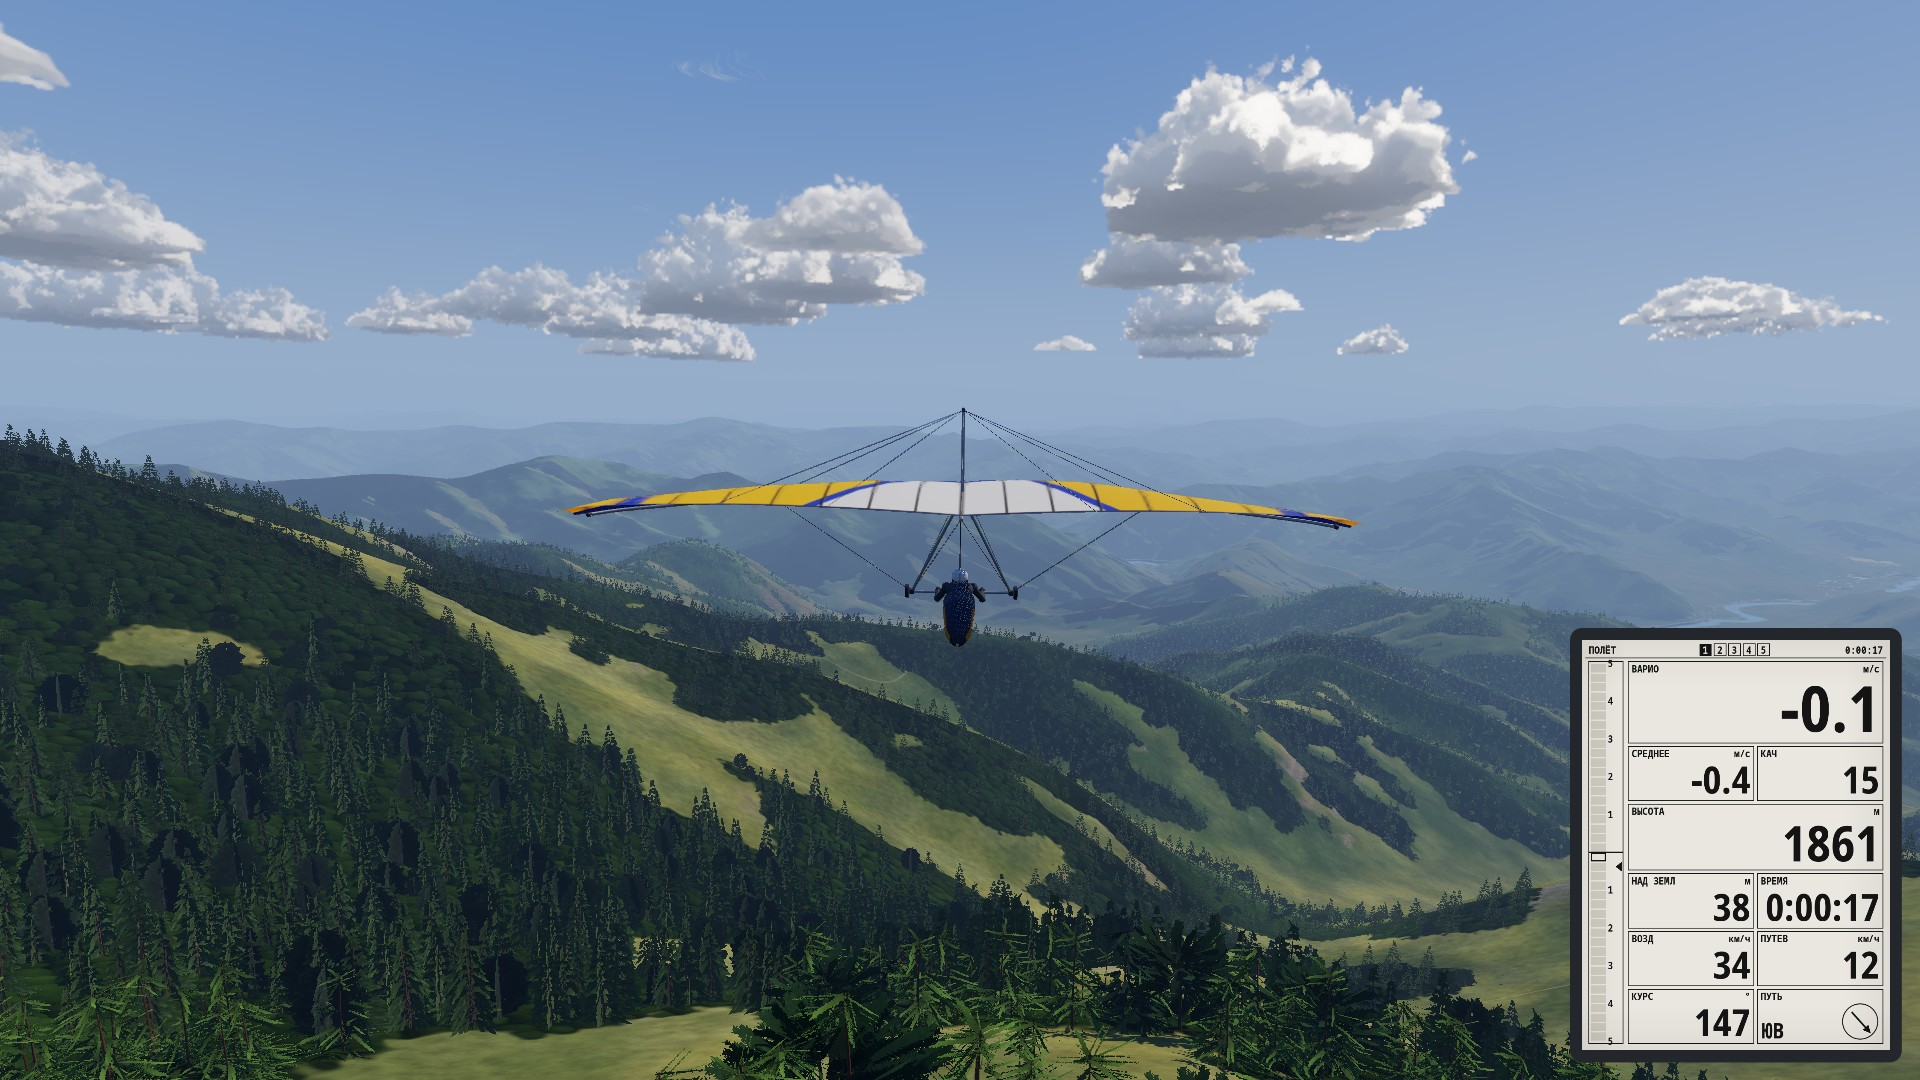
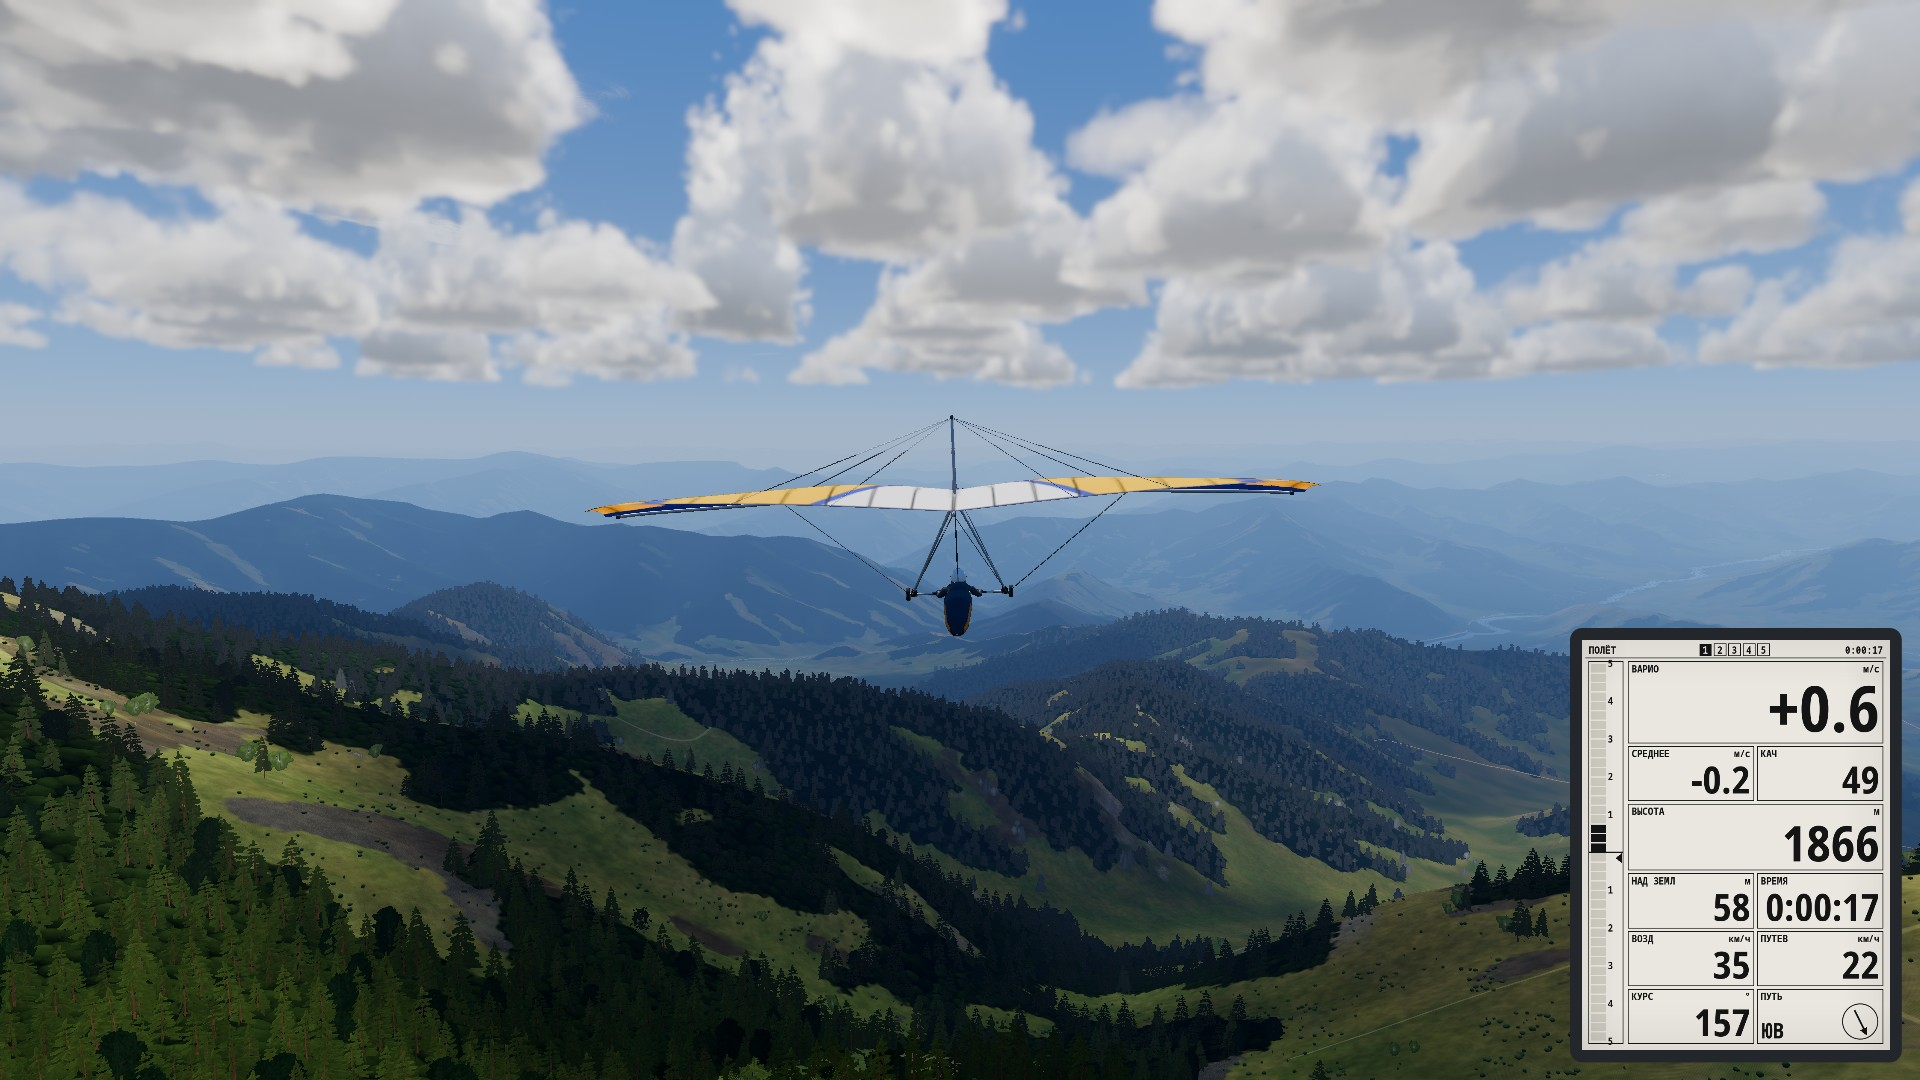
Скриншоты сайта: игровой процесс и новые кадры (октябрь 2026)
- Игровой процесс: обновлены 3 кадра (кабина, сзади, свободная камера)
- Новые кадры сайта: gaggle (3 снимка), запуск, разбег
- Контракт C3 пройден
- Используемые инструменты: tools/shots/gameplay.sh, tools/shots/itch_shot.tscn

Claude-Session: https://claude.ai/code/session_01K4ZH58G5i4ZsCX3j7DSzUY

diff --git a/docs/screenshots/site/README.md b/docs/screenshots/site/README.md
@@ -1,0 +1,28 @@
+# Новые кадры сайта (октябрь 2026)
+
+Перезняты готовыми инструментами `tools/shots`: обновлены 3D-модели крыльев (48 вариантов), новые кадры игрового процесса.
+
+## Кадры для сайта
+
+| Файл | Что на кадре | Команда съёмки |
+|---|---|---|
+| 01_группа_в_термике_1.jpg | Группа в термике (кадр 1) | `godot … res://tools/shots/itch_shot.tscn -- --autostart --autopilot --bots=8 --kind=gaggle --times=150,220,300 --out=... --tag=gaggle` |
+| 02_группа_в_термике_2.jpg | Группа в термике (кадр 2) | (см. 01) |
+| 03_группа_в_термике_3.jpg | Группа в термике (кадр 3) | (см. 01) |
+| 04_старт_крылья_на_склоне.jpg | Старт, крылья на склоне | `godot … res://tools/shots/itch_shot.tscn -- --autostart --autopilot --bots=8 --kind=launch --out=... --tag=launch` |
+| 05_разбег.jpg | Разбег | `godot … res://tools/shots/itch_shot.tscn -- --autostart --autopilot --bots=8 --kind=run --out=... --tag=run` |
+| 06_у_кромки_облаков.jpg | У кромки облаков | `godot … res://tools/shots/itch_shot.tscn -- --autostart --autopilot --bots=8 --kind=high --out=... --tag=high` |
+| 07_славутич_сзади.jpg | Славутич, вид сзади | `godot … res://tools/shots/itch_shot.tscn -- --autostart --autopilot --bots=8 --kind=chase --times=20 --wing=slavutich_ut --out=... --tag=chase_slavutich_ut` |
+| 08_piuma_сзади.jpg | Piuma, вид сзади | `godot … res://tools/shots/itch_shot.tscn -- --autostart --autopilot --bots=8 --kind=chase --times=20 --wing=icaro_piuma --out=... --tag=chase_icaro_piuma` |
+| 09_eagle_сзади.jpg | Eagle, вид сзади | `godot … res://tools/shots/itch_shot.tscn -- --autostart --autopilot --bots=8 --kind=chase --times=20 --wing=ww_eagle --out=... --tag=chase_ww_eagle` |
+| 10_t2c_сзади.jpg | T2C, вид сзади | `godot … res://tools/shots/itch_shot.tscn -- --autostart --autopilot --bots=8 --kind=chase --times=20 --wing=ww_t2c --out=... --tag=chase_ww_t2c` |
+
+Все кадры:
+- JPEG, качество 85, размер 1600×900, ≤ 350 КБ
+- Снято с `XDG_DATA_HOME=$(mktemp -d)`, timeout 150 с, DISPLAY=:0, --audio-driver Dummy, --fullscreen
+- Без интерфейса игры (автоматично для itch_shot)
+
+Процесс съёмки:
+- `tools/shots/gameplay.sh` — геймплей: кабина, сзади, свободная камера (обновлены)
+- `tools/shots/e2e.sh` — локации: полёт и итог для каждого места (пересняты)
+- `tools/shots/itch_shot.tscn` — сценарии: gaggle, launch, run, high, chase (новые кадры для сайта)
